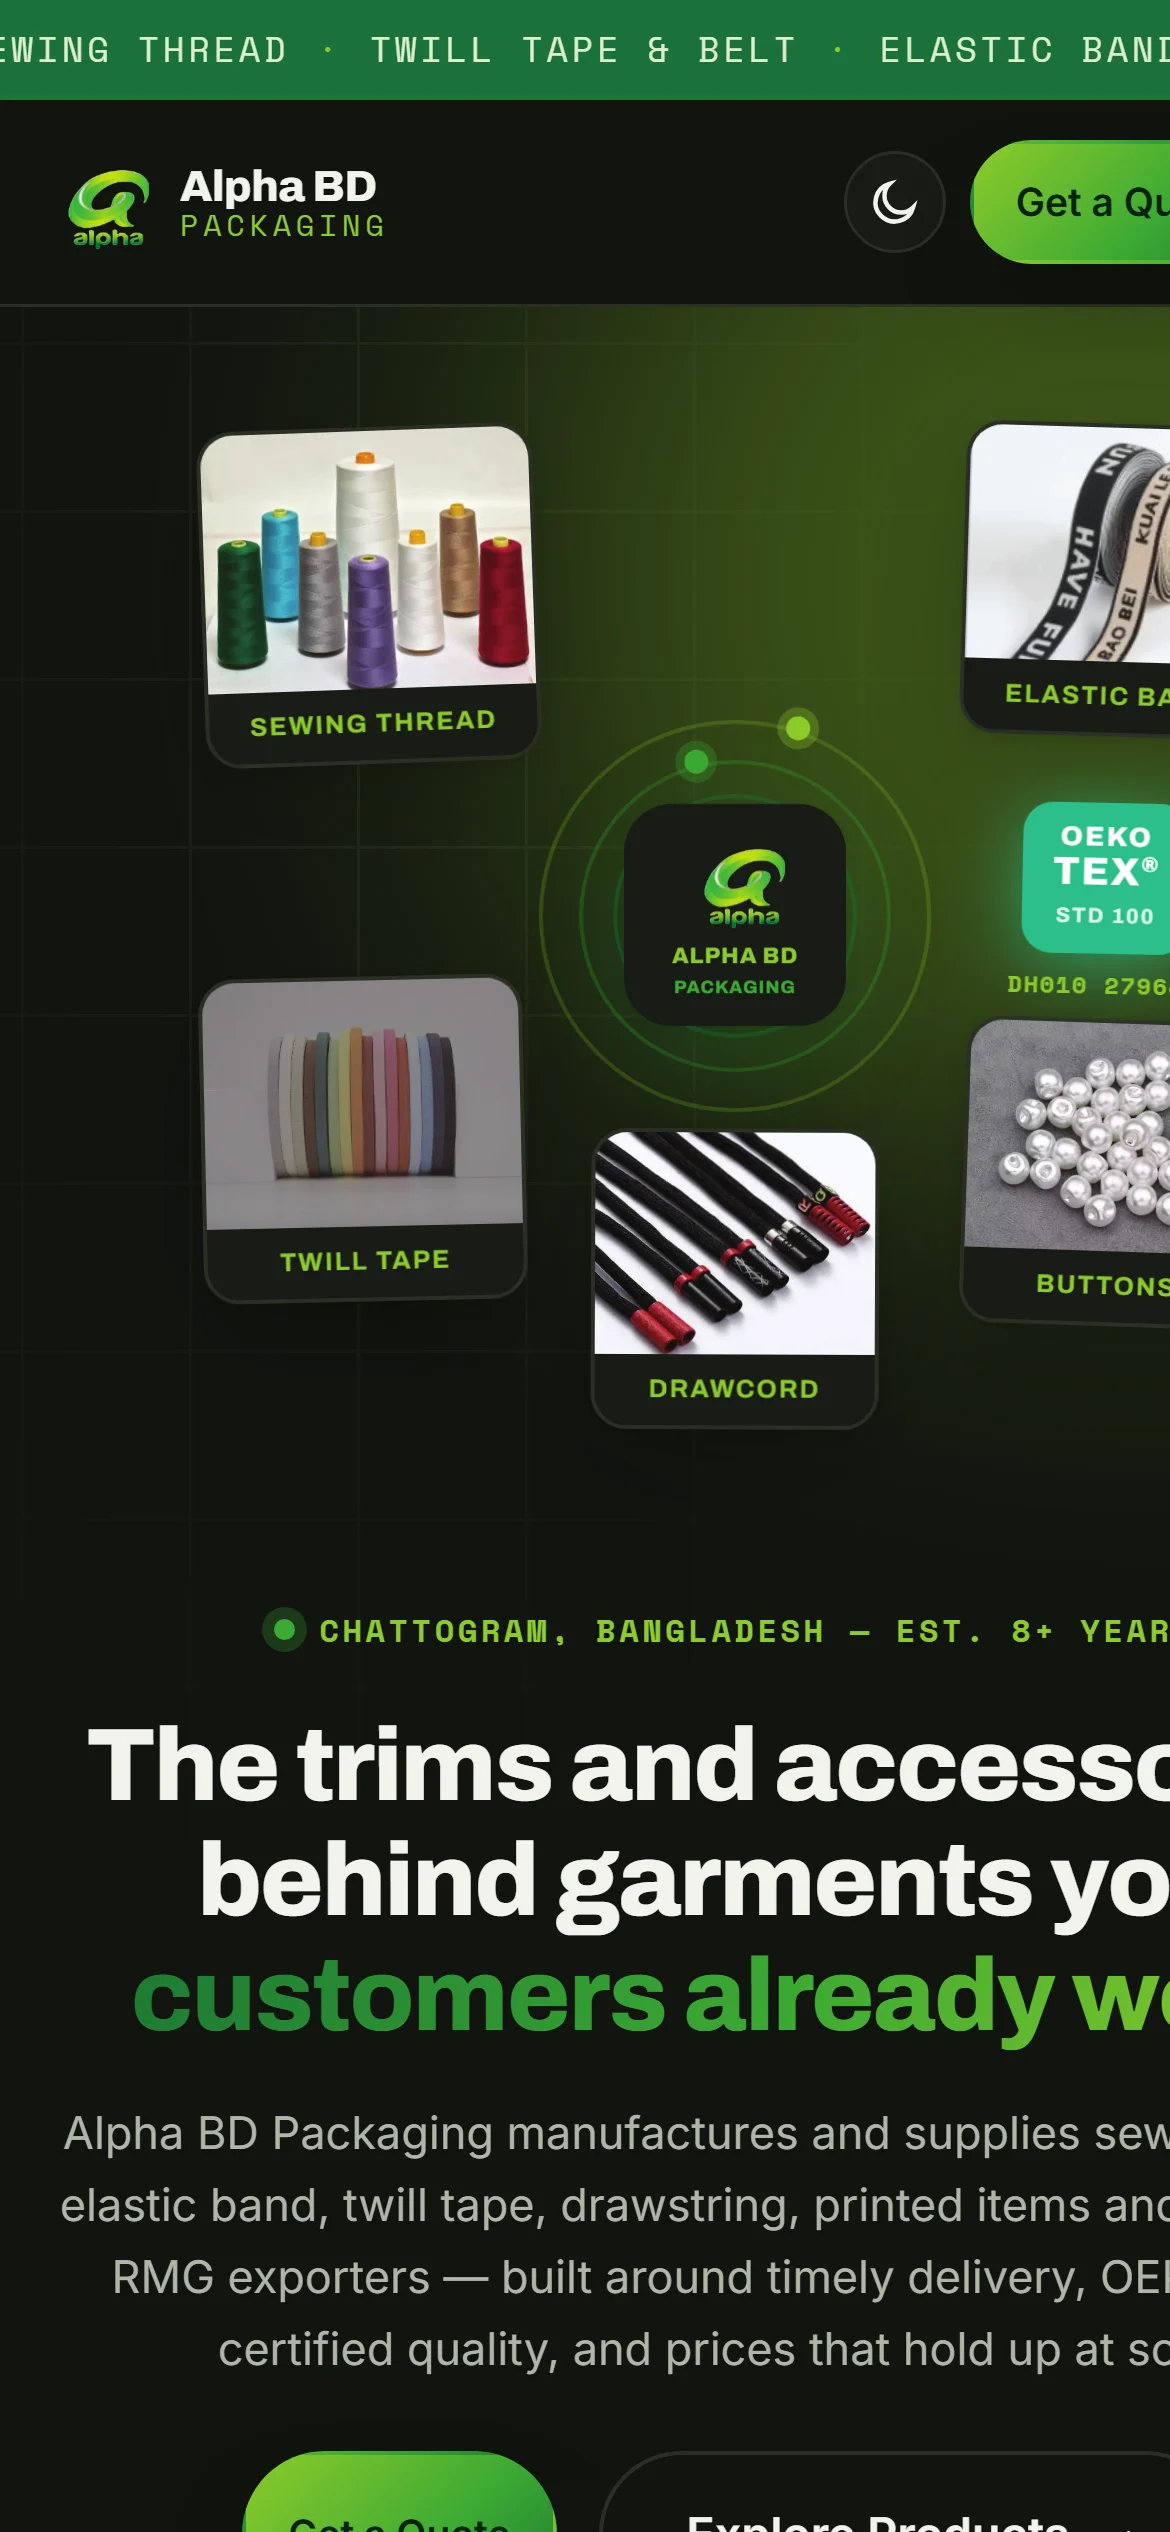
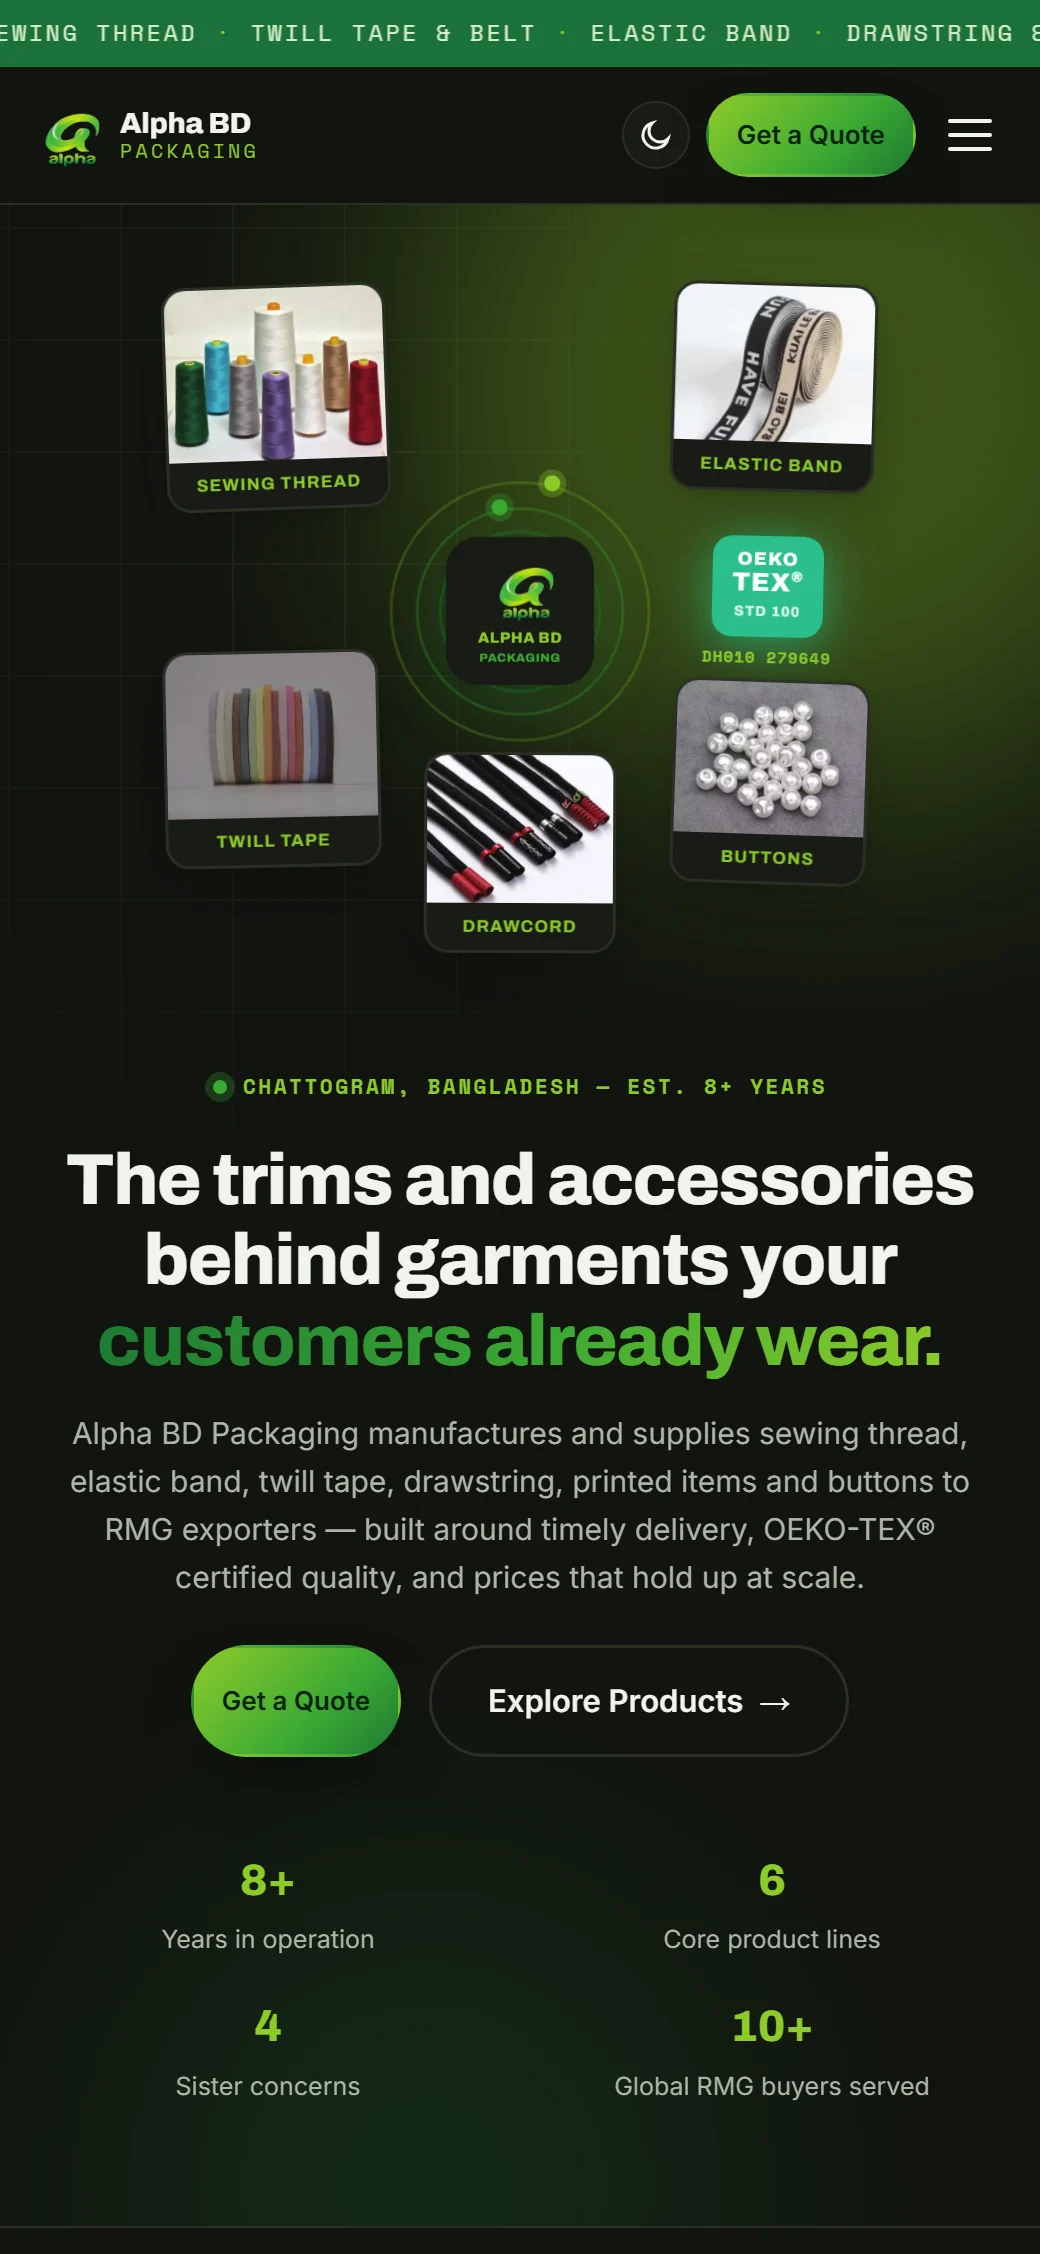
Work cards: floating phone mockup over the browser frame

diff --git a/src/components/sections/CaseStudies.tsx b/src/components/sections/CaseStudies.tsx
@@ -20,8 +20,9 @@ const hueGlow: Record<Hue, string> = {
 };
 
 /**
- * Project card: a browser-frame mockup of the site (crisp 2× capture) on a
- * tinted stage, copy on a solid panel below — nothing overlaps the artwork.
+ * Project card: a browser-frame mockup of the site (crisp 2× capture) with a
+ * phone mockup floating over its corner, on a tinted stage; copy sits on a
+ * solid panel below so nothing overlaps the artwork.
  */
 function ProjectCard({ p, index }: { p: (typeof caseStudies)[number]; index: number }) {
   const host = p.href ? p.href.replace(/^https?:\/\//, "").replace(/\/$/, "") : "coming-soon";
@@ -65,6 +66,19 @@ function ProjectCard({ p, index }: { p: (typeof caseStudies)[number]; index: num
               )}
             </div>
           </div>
+
+          {/* floating handset, overlapping the browser's corner */}
+          {p.mobile && (
+            <div
+              className="absolute -bottom-[7%] right-5 w-[23%] min-w-[118px] max-w-[188px] rounded-[1.7rem] border-[5px] border-[#171a26] bg-[#05060a] shadow-[0_34px_70px_-22px_rgba(0,0,0,0.95),0_0_0_1px_rgba(255,255,255,0.09)] transition-transform delay-75 duration-700 ease-[cubic-bezier(.22,1,.36,1)] group-hover:-translate-y-4 sm:right-8"
+              style={{ aspectRatio: "430 / 932" }}
+            >
+              <div aria-hidden className="absolute left-1/2 top-[1.6%] z-10 h-[2.6%] w-[34%] -translate-x-1/2 rounded-full bg-[#171a26]" />
+              <div className="absolute inset-0 overflow-hidden rounded-[1.35rem]">
+                <Image src={p.mobile} alt="" fill quality={90} sizes="190px" className="object-cover object-top" />
+              </div>
+            </div>
+          )}
         </div>
 
         {/* ── copy */}

diff --git a/src/content/site.ts b/src/content/site.ts
@@ -154,8 +154,10 @@ export const caseStudies: {
   technology: string[];
   services: string[];
   hue: Hue;
-  /** screenshot in /public (16:9-ish); placeholders have none */
+  /** desktop capture in /public (16:10); placeholders have none */
   image?: string;
+  /** phone capture (≈ 9:19.5) shown in a floating handset mockup */
+  mobile?: string;
   /** live site; placeholders link to the contact form */
   href?: string;
   client?: string;
@@ -172,6 +174,7 @@ export const caseStudies: {
     services: ["Web Development", "UI/UX Design"],
     hue: "blue",
     image: "/work/alpha-bd/desktop.webp",
+    mobile: "/work/alpha-bd/mobile.webp",
     href: "https://alphabdpackaging.com/",
   },
   {
